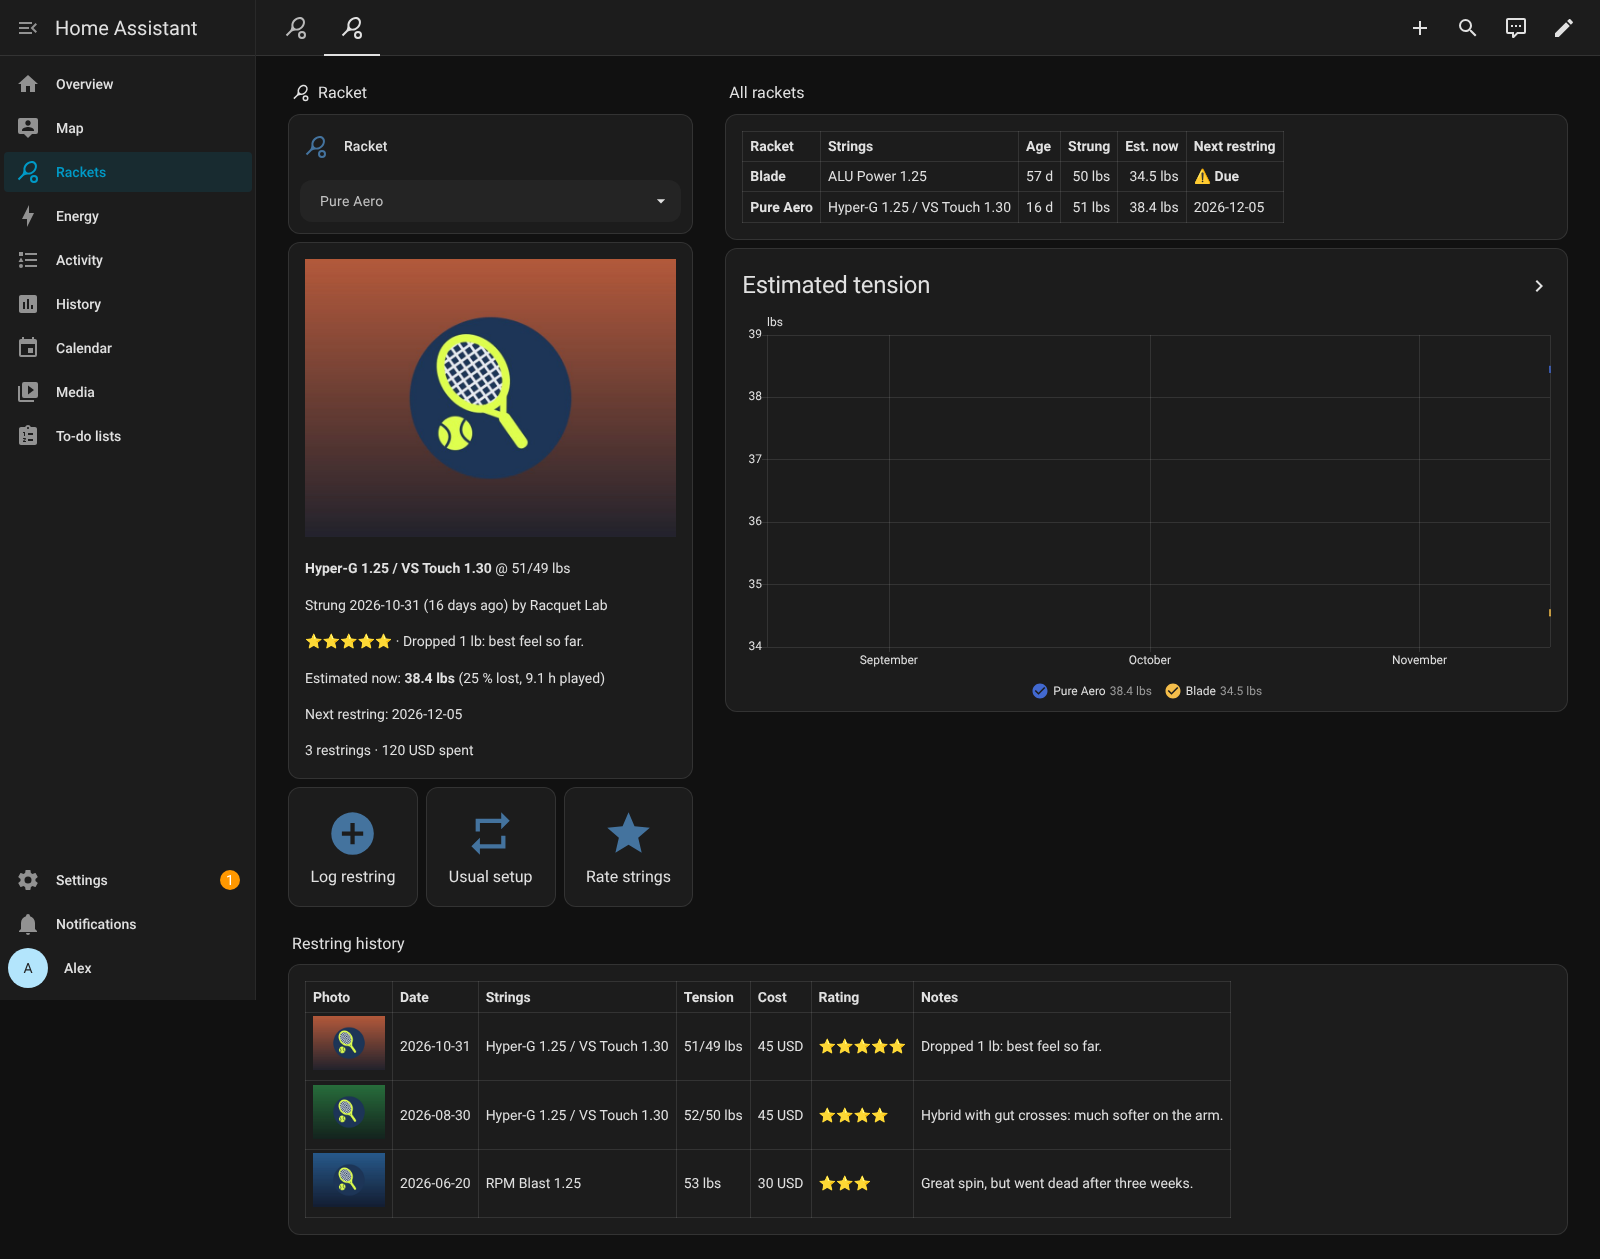
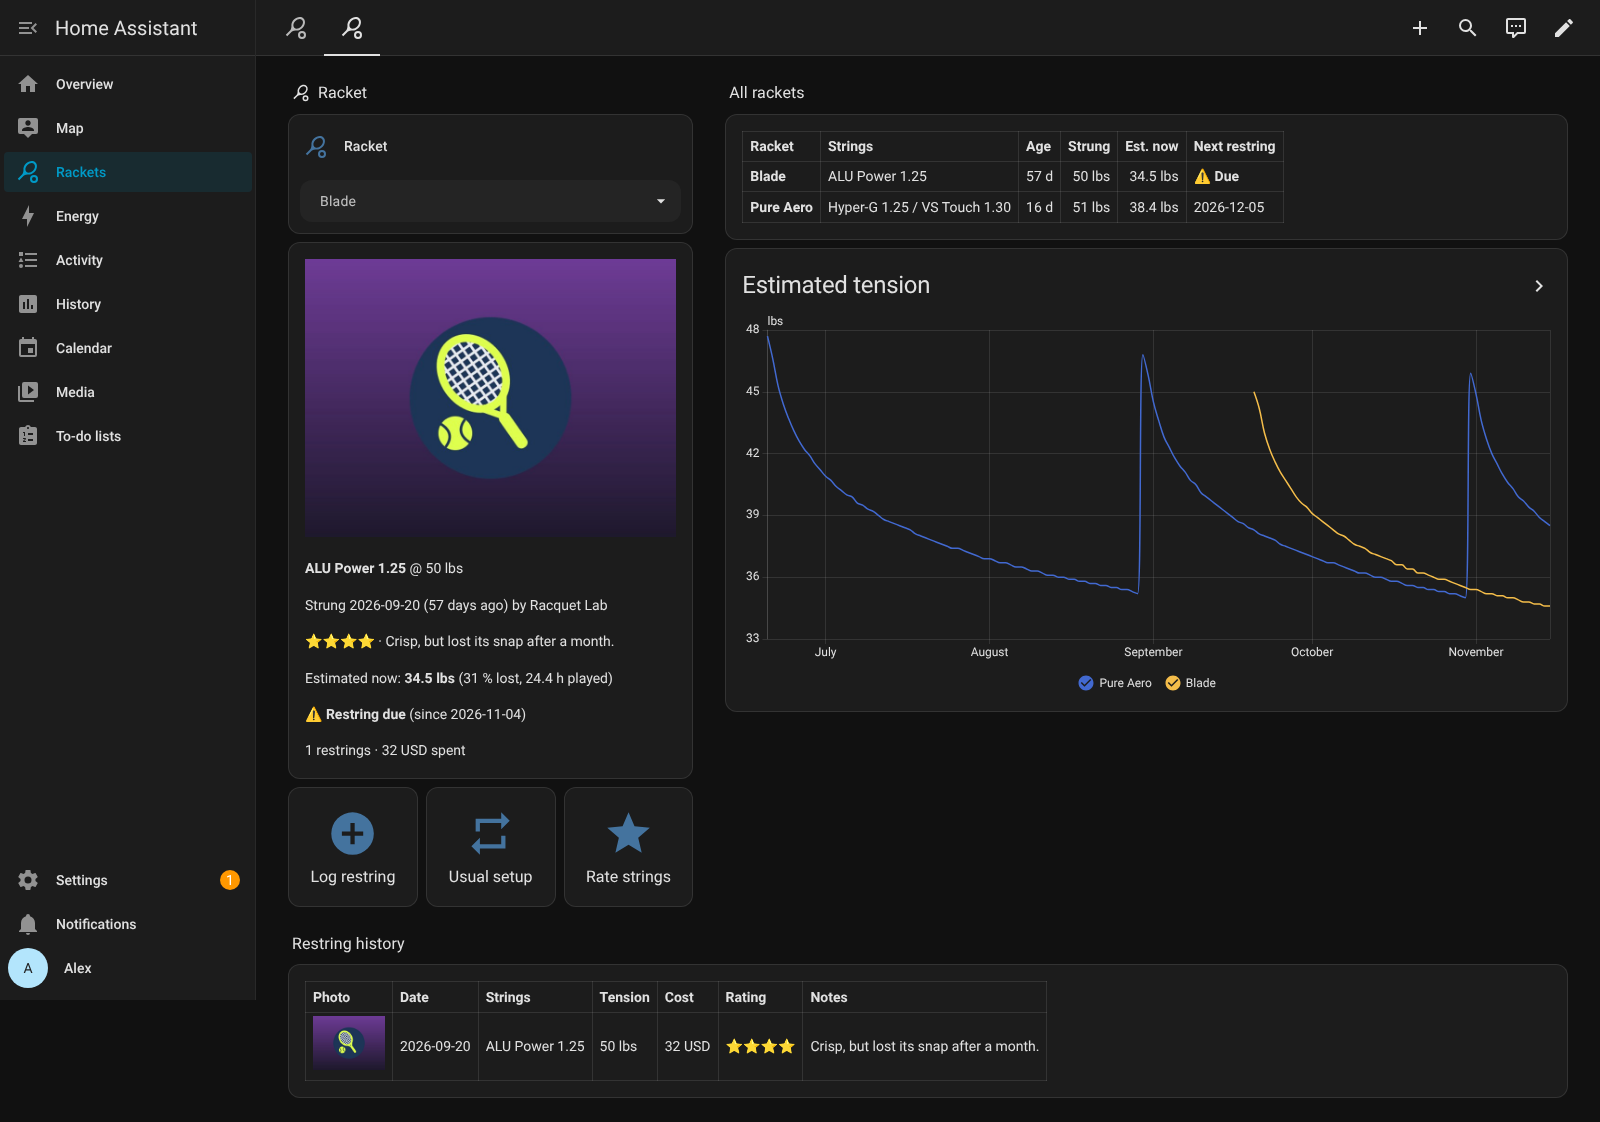
Backfill tension statistics so backdated restrings show in graphs
Home Assistant only records states going forward, so a backdated restring
appeared as a jump on the day it was logged. After every history change (and
on setup), Strung now imports hourly long-term statistics, from the first
restring up to the last full hour (at most three years), for:

- Tension: the strung tension of the restring in effect
- Estimated tension: the estimate for each day

Runs are serialized per racket, and each reads the history when it starts,
so a slow earlier run can't overwrite a newer one. unit_class is set only on
recorders that know it (the 2025.7 recorder rejects unknown keys). The
recorder is an after_dependency, and the backfill is skipped without it.

Both example dashboards use Statistics graph cards now. The screenshots from
a real HA 2026.9.4 show the backfilled history since June.

Claude-Session: https://claude.ai/code/session_01SaaNWi1ziWLrJfJDKYbRnS

diff --git a/custom_components/racket_tracker/backfill.py b/custom_components/racket_tracker/backfill.py
@@ -1,0 +1,124 @@
+"""Backfill the tension sensors' long-term statistics from the restring history.
+
+Home Assistant only records a sensor's values from the moment it writes them,
+so a backdated restring would show as a jump on the day it was logged. After
+every change to the history (and on setup) this writes one hourly statistic
+per hour, from the first restring (at most MAX_DAYS back) up to the last full
+hour, for:
+
+- the Tension sensor: the strung mains tension of the restring in effect then
+- the Estimated tension sensor: the model's estimate for that day
+
+Statistics graph cards then show the whole history. The recorder compiles the
+hours after that from the sensors' own states, which give the same values.
+"""
+
+from __future__ import annotations
+
+import bisect
+from datetime import date, datetime, timedelta
+from typing import TYPE_CHECKING, Any
+
+from homeassistant.const import Platform
+from homeassistant.core import HomeAssistant
+from homeassistant.helpers import entity_registry as er
+from homeassistant.util import dt as dt_util
+
+from .const import (
+    ATTR_DATE,
+    ATTR_MAIN_TENSION,
+    CONF_TENSION_UNIT,
+    DOMAIN,
+    TENSION_UNIT_LBS,
+)
+from .tension import PlaySettings, estimate, play_settings
+
+if TYPE_CHECKING:
+    from . import RacketConfigEntry
+
+MAX_DAYS = 3 * 365
+
+
+def _hourly(
+    records: list[dict[str, Any]],
+    settings: PlaySettings | None,
+    start: datetime,
+    end: datetime,
+) -> tuple[list[tuple[datetime, float]], list[tuple[datetime, float]]]:
+    """(hour, strung tension) and (hour, estimated tension) from start to end."""
+    dates = [r[ATTR_DATE] for r in records]
+    strung: list[tuple[datetime, float]] = []
+    estimated: list[tuple[datetime, float]] = []
+    per_day: dict[date, tuple[float | None, float | None]] = {}
+    hour = start
+    while hour < end:
+        day = dt_util.as_local(hour).date()
+        if day not in per_day:
+            # The restring in effect that day: the last one on or before it
+            index = bisect.bisect_right(dates, day.isoformat()) - 1
+            record = records[index] if index >= 0 else None
+            value = record.get(ATTR_MAIN_TENSION) if record else None
+            est = estimate(record, settings, day) if record and settings else None
+            per_day[day] = (
+                value if isinstance(value, (int, float)) else None,
+                est.main_tension if est else None,
+            )
+        value, est_value = per_day[day]
+        if value is not None:
+            strung.append((hour, float(value)))
+        if est_value is not None:
+            estimated.append((hour, est_value))
+        hour += timedelta(hours=1)
+    return strung, estimated
+
+
+async def async_backfill(hass: HomeAssistant, entry: RacketConfigEntry) -> None:
+    """Write the hourly statistics for this racket's tension sensors."""
+    if "recorder" not in hass.config.components:
+        return
+    # Imported here: the recorder is optional (after_dependencies)
+    from homeassistant.components.recorder.models import (
+        StatisticData,
+        StatisticMeanType,
+        StatisticMetaData,
+    )
+    from homeassistant.components.recorder.statistics import async_import_statistics
+
+    records = [r for r in entry.runtime_data.restrings if r.get(ATTR_DATE)]
+    if not records:
+        return
+    end = dt_util.utcnow().replace(minute=0, second=0, microsecond=0)
+    first = dt_util.start_of_local_day(date.fromisoformat(records[0][ATTR_DATE]))
+    start = max(dt_util.as_utc(first), end - timedelta(days=MAX_DAYS))
+    settings = play_settings(entry.options)
+    strung, estimated = await hass.async_add_executor_job(
+        _hourly, records, settings, start, end
+    )
+
+    registry = er.async_get(hass)
+    unit = entry.options.get(CONF_TENSION_UNIT, TENSION_UNIT_LBS)
+    for key, rows in (("tension", strung), ("estimated_tension", estimated)):
+        entity_id = registry.async_get_entity_id(
+            Platform.SENSOR, DOMAIN, f"{entry.entry_id}_{key}"
+        )
+        if entity_id is None or not rows:
+            continue
+        metadata: dict[str, Any] = {
+            "mean_type": StatisticMeanType.ARITHMETIC,
+            "has_sum": False,
+            "name": None,
+            "source": "recorder",
+            "statistic_id": entity_id,
+            "unit_of_measurement": unit,
+        }
+        # Newer recorders need unit_class; older ones reject unknown keys
+        if "unit_class" in StatisticMetaData.__annotations__:
+            metadata["unit_class"] = None
+        async_import_statistics(
+            hass,
+            StatisticMetaData(**metadata),  # type: ignore[typeddict-item]
+            [
+                StatisticData(start=hour, mean=value, min=value, max=value)
+                for hour, value in rows
+            ],
+        )

diff --git a/tests/test_backfill.py b/tests/test_backfill.py
@@ -1,0 +1,115 @@
+"""Backdated restrings backfill the tension sensors' long-term statistics."""
+
+from __future__ import annotations
+
+from datetime import date, timedelta
+
+import pytest
+from homeassistant import config_entries
+from homeassistant.components.recorder import Recorder, get_instance
+from homeassistant.components.recorder.statistics import statistics_during_period
+from homeassistant.core import HomeAssistant
+from homeassistant.setup import async_setup_component
+from homeassistant.util import dt as dt_util
+from pytest_homeassistant_custom_component.components.recorder.common import (
+    async_wait_recording_done,
+)
+
+from custom_components.racket_tracker.const import DOMAIN
+from custom_components.racket_tracker.tension import estimate, play_settings
+
+
+@pytest.fixture(autouse=True)
+def auto_enable_custom_integrations(
+    recorder_mock: Recorder, enable_custom_integrations: None
+) -> None:
+    """The recorder must start before hass (overrides conftest's fixture)."""
+
+
+IDS = {"sensor.blade_tension", "sensor.blade_estimated_tension"}
+
+
+async def _stats(hass: HomeAssistant) -> dict[str, list[dict]]:
+    # The backfill runs as a background task, then queues a recorder job
+    await hass.async_block_till_done(wait_background_tasks=True)
+    await async_wait_recording_done(hass)
+    start = dt_util.utcnow() - timedelta(days=400)
+    return await get_instance(hass).async_add_executor_job(
+        statistics_during_period, hass, start, None, IDS, "hour", None, {"mean"}
+    )
+
+
+def _days_ago(days: int) -> str:
+    return (dt_util.now().date() - timedelta(days=days)).isoformat()
+
+
+async def test_backfill(recorder_mock: Recorder, hass: HomeAssistant) -> None:
+    assert await async_setup_component(hass, "http", {})
+    result = await hass.config_entries.flow.async_init(
+        DOMAIN, context={"source": config_entries.SOURCE_USER}
+    )
+    result = await hass.config_entries.flow.async_configure(
+        result["flow_id"],
+        {"name": "Blade", "tension_unit": "lbs", "play": {"hours_per_week": 4}},
+    )
+    entry = result["result"]
+    await hass.async_block_till_done()
+    assert await _stats(hass) == {}  # Nothing strung yet
+
+    async def restring(**data) -> None:
+        await hass.services.async_call(
+            DOMAIN,
+            "add_restring",
+            {"config_entry_id": entry.entry_id, "main_string": "ALU", **data},
+            blocking=True,
+        )
+        await hass.async_block_till_done()
+
+    # Two backdated restrings: 60 days ago at 52, 20 days ago at 50
+    await restring(main_tension=52, date=_days_ago(60))
+    await restring(main_tension=50, date=_days_ago(20))
+    stats = await _stats(hass)
+    strung, est = stats["sensor.blade_tension"], stats["sensor.blade_estimated_tension"]
+
+    # Hourly from local midnight on the first restring day to the last full hour
+    first = dt_util.as_utc(
+        dt_util.start_of_local_day(date.fromisoformat(_days_ago(60)))
+    )
+    assert dt_util.utc_from_timestamp(strung[0]["start"]) == first
+    last_full_hour = dt_util.utcnow().replace(minute=0, second=0, microsecond=0)
+    assert dt_util.utc_from_timestamp(
+        strung[-1]["start"]
+    ) >= last_full_hour - timedelta(hours=1)
+    assert len(est) == len(strung)
+
+    def at(rows: list[dict], days_ago: int) -> float:
+        """The value at local noon that many days ago."""
+        noon = dt_util.start_of_local_day(
+            date.fromisoformat(_days_ago(days_ago))
+        ) + timedelta(hours=12)
+        stamp = dt_util.as_utc(noon).timestamp()
+        return next(r["mean"] for r in rows if r["start"] == stamp)
+
+    # The restring in effect that day, and the model's estimate for it
+    assert at(strung, 40) == 52 and at(strung, 10) == 50
+    settings = play_settings(entry.options)
+    for days_ago, record in (
+        (59, {"date": _days_ago(60), "main_tension": 52}),
+        (40, {"date": _days_ago(60), "main_tension": 52}),
+        (10, {"date": _days_ago(20), "main_tension": 50}),
+    ):
+        expected = estimate(record, settings, date.fromisoformat(_days_ago(days_ago)))
+        assert at(est, days_ago) == expected.main_tension
+    # Strings lose tension until the next restring resets it
+    assert at(est, 40) < at(est, 59)
+    assert at(est, 19) > at(est, 21)
+
+    # Without hours per week only the strung tension is backfilled
+    result = await hass.config_entries.options.async_init(entry.entry_id)
+    await hass.config_entries.options.async_configure(
+        result["flow_id"], {"tension_unit": "lbs", "play": {}}
+    )
+    await hass.async_block_till_done()
+    await restring(main_tension=48, date=_days_ago(5))
+    stats = await _stats(hass)
+    assert at(stats["sensor.blade_tension"], 2) == 48

diff --git a/custom_components/racket_tracker/__init__.py b/custom_components/racket_tracker/__init__.py
@@ -2,6 +2,7 @@
 
 from __future__ import annotations
 
+import asyncio
 from datetime import date
 from typing import Any
 
@@ -14,12 +15,14 @@ from homeassistant.core import (
     ServiceCall,
     ServiceResponse,
     SupportsResponse,
+    callback,
 )
 from homeassistant.exceptions import ServiceValidationError
 from homeassistant.helpers import config_validation as cv
 from homeassistant.helpers.typing import ConfigType
 from homeassistant.util import dt as dt_util
 
+from .backfill import async_backfill
 from .const import (
     ATTR_CONFIG_ENTRY_ID,
     ATTR_COST,
@@ -409,6 +412,25 @@ async def async_setup_entry(hass: HomeAssistant, entry: RacketConfigEntry) -> bo
 
     await hass.config_entries.async_forward_entry_setups(entry, PLATFORMS)
     entry.async_on_unload(entry.add_update_listener(_async_reload))
+
+    # Keep the tension sensors' statistics in line with the (possibly backdated)
+    # history, so statistics graphs show it from the first restring on
+    # One at a time, each reading the history once it runs, so a slow earlier
+    # run can't overwrite a newer one
+    lock = asyncio.Lock()
+
+    async def _run_backfill() -> None:
+        async with lock:
+            await async_backfill(hass, entry)
+
+    @callback
+    def _backfill() -> None:
+        entry.async_create_background_task(
+            hass, _run_backfill(), f"{DOMAIN} backfill {entry.entry_id}"
+        )
+
+    entry.async_on_unload(history.async_add_listener(_backfill))
+    _backfill()
     return True
 
 

diff --git a/tests/test_integration.py b/tests/test_integration.py
@@ -262,3 +262,18 @@ async def test_diagnostics(hass: HomeAssistant) -> None:
     assert diag["title"] == "Pure Aero"
     assert diag["options"]["brand"] == "Babolat"
     assert diag["restring_count"] == 1 and diag["restrings"][0]["main_string"] == "X"
+
+
+async def test_no_recorder(hass: HomeAssistant) -> None:
+    """Without the recorder, backfilling is skipped quietly."""
+    from custom_components.racket_tracker.backfill import async_backfill
+
+    assert await async_setup_component(hass, "http", {})
+    entry_id = await _add_racket(hass)
+    await hass.services.async_call(
+        DOMAIN,
+        "add_restring",
+        {"config_entry_id": entry_id, "main_string": "X", "main_tension": 50},
+        blocking=True,
+    )
+    await async_backfill(hass, hass.config_entries.async_get_entry(entry_id))

diff --git a/README.md b/README.md
@@ -225,6 +225,16 @@ Example: polyester strung at 52 lbs two weeks ago, 4 hours a week → 8 hours pl
 `racket_tracker.calibrate_tension` (racket, measured tension, optional date). All three rates are
 scaled by the same factor so the estimate matches your measurement, and saved on the racket.
 
+### History, including backdated restrings
+
+Home Assistant only records a sensor from the moment it changes, so a restring you log late would
+show up as a sudden jump. Strung fills in the gap: after every restring you add, edit or delete, it
+writes hourly long-term statistics for **Tension** (the strung tension of the restring in effect)
+and **Estimated tension** (the estimate for each day), from the first restring up to now (at most
+three years). Use a **Statistics graph** card to see it, as the example dashboards do; a History
+graph only shows what was recorded live. Rewriting the history uses your current tension settings,
+so after calibrating, the past is re-estimated too. Needs the recorder (on by default).
+
 This adds three sensors, updated at midnight and after every restring: **Estimated tension** (in the
 racket's unit; `strung_tension`, `estimated_cross_tension` and the rates in use), **Estimated tension
 loss** (%) and **Hours played**. Clear the hours to remove them.
@@ -360,7 +370,8 @@ Home Assistant's built-in cards:
   which logs your [usual setup](#usual-setup) for today after a confirmation
 - a **Schedule** column: Restring due, Next restring and a month calendar of restrings and the next
   one due (remove it if you don't set a [restring rule](#restring-due))
-- the current setup's rating and notes, your specs, and tension (strung and estimated) over time
+- the current setup's rating and notes, your specs, and tension (strung and estimated) over time,
+  in a Statistics graph so [backdated restrings](#history-including-backdated-restrings) show too
 - a history table with photo thumbnails, strings, tensions, cost, stars and notes
 
 A test checks that every entity it uses exists. The screenshot at the top is this view in Home
@@ -387,7 +398,7 @@ Tests render every card with two rackets.
 <p align="center">
 <picture>
   <source media="(prefers-color-scheme: dark)" srcset="images/screenshots/dashboard-multi-dark.png">
-  <img src="images/screenshots/dashboard-multi-light.png" alt="The multi-racket view: a Racket dropdown set to Pure Aero with its photo, strings, estimate and next restring; an All rackets table showing Blade due; a graph of both rackets' estimated tension; and Pure Aero's restring history" width="800">
+  <img src="images/screenshots/dashboard-multi-light.png" alt="The multi-racket view: a Racket dropdown set to Blade with its photo, strings, estimate and a Restring due warning; an All rackets table; a graph of both rackets' estimated tension since June; and Blade's restring history" width="800">
 </picture>
 </p>
 

diff --git a/CLAUDE.md b/CLAUDE.md
@@ -13,6 +13,7 @@ custom_components/racket_tracker/
 ├── images.py          # Photo import (media selector / media-source ID / allowed path) → <config>/racket_tracker/images
 ├── dataset.py         # Racqix dataset: fetch (cached 1 day), search, label, apply() → options
 ├── tension.py         # Estimated tension: options["play"] → estimate(); log-time + log-play model, sources in its docstring
+├── backfill.py        # Hourly long-term statistics for tension + estimated_tension from the history (recorder import, serialized per entry)
 ├── due.py             # Restring rules options["due"] (days, hours_played, min_tension) → next_due()
 ├── specs.py           # SPECS definitions; effective_specs() merges dataset_specs < specs (user wins)
 ├── config_flow.py     # Add racket (name, optional lookup → "pick" step, details, collapsible play/due/setup/specs); options flow edits them; reconfigure renames
